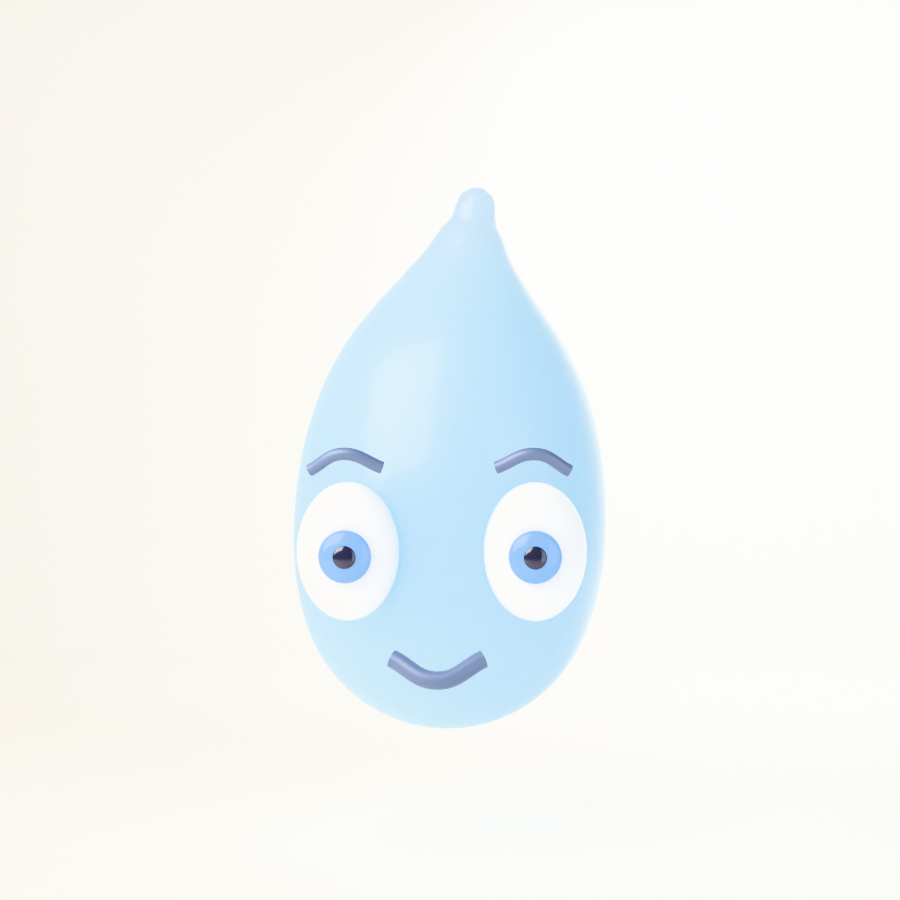
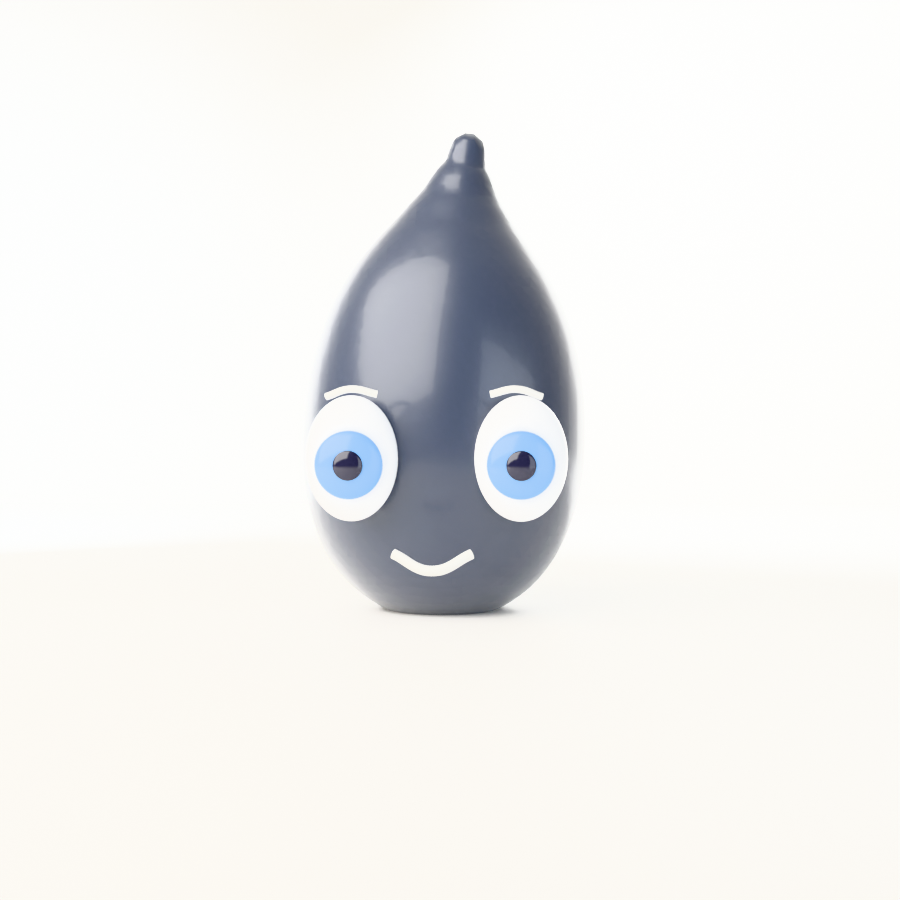
feat: Clio ink-drop character — grounded, stylized, black-ink direction
Ink-drop resting form on the page with true contact (floor slices the
metaball surface at its measured bottom — the conversion surface sits
at ~0.57x element radius, found via bbox debugging). Stylized Pixar
material: near-black blue ink, soft sheen over vinyl gloss, calm face
(large irises, low flat brows), big-softbox studio light.

Changed region(s): [[0.3111, 0.1244, 0.6844, 0.8089]]

diff --git a/tools/clio-character/build_clio.py b/tools/clio-character/build_clio.py
@@ -71,18 +71,19 @@ bpy.context.view_layer.objects.active = body
 bpy.ops.object.shade_smooth()
 
 # ── Body material: translucent blue resin-skin ───────────────────────────────
-mat = bpy.data.materials.new('ClioSkin')
+mat = bpy.data.materials.new('ClioInk')
 mat.use_nodes = True
 bsdf = mat.node_tree.nodes['Principled BSDF']
-bsdf.inputs['Base Color'].default_value = (0.38, 0.62, 0.90, 1.0)  # sky blue
-bsdf.inputs['Roughness'].default_value = 0.32
-# Subsurface scattering — the Pixar skin ingredient
-if 'Subsurface Weight' in bsdf.inputs:  # Blender 4.x
-    bsdf.inputs['Subsurface Weight'].default_value = 0.38
-    bsdf.inputs['Subsurface Radius'].default_value = (0.4, 0.55, 0.9)
-    bsdf.inputs['Subsurface Scale'].default_value = 0.5
+bsdf.inputs['Base Color'].default_value = (0.030, 0.040, 0.070, 1.0)  # stylized ink: near-black blue
+bsdf.inputs['Roughness'].default_value = 0.33  # soft toy sheen, not vinyl
 if 'Coat Weight' in bsdf.inputs:
-    bsdf.inputs['Coat Weight'].default_value = 0.25  # soft wax coat
+    bsdf.inputs['Coat Weight'].default_value = 0.22  # gentle sheen
+    bsdf.inputs['Coat Roughness'].default_value = 0.08
+if 'Sheen Weight' in bsdf.inputs:
+    bsdf.inputs['Sheen Weight'].default_value = 0.3
+if 'Subsurface Weight' in bsdf.inputs:
+    bsdf.inputs['Subsurface Weight'].default_value = 0.06
+    bsdf.inputs['Subsurface Radius'].default_value = (0.1, 0.12, 0.25)
 body.data.materials.append(mat)
 
 
@@ -102,7 +103,7 @@ def make_eye(x, name):
     eye.data.materials.append(m)
 
     # Iris — flattened sphere sunk into the sclera front
-    bpy.ops.mesh.primitive_uv_sphere_add(radius=0.095, location=(x, -0.745, 1.27), segments=32, ring_count=24)
+    bpy.ops.mesh.primitive_uv_sphere_add(radius=0.135, location=(x, -0.735, 1.26), segments=32, ring_count=24)
     iris = bpy.context.active_object
     iris.name = f'{name}_iris'
     iris.scale = (1.0, 0.35, 1.0)
@@ -110,12 +111,12 @@ def make_eye(x, name):
     mi = bpy.data.materials.new(f'{name}_irisMat')
     mi.use_nodes = True
     bi = mi.node_tree.nodes['Principled BSDF']
-    bi.inputs['Base Color'].default_value = (0.16, 0.38, 0.75, 1.0)
+    bi.inputs['Base Color'].default_value = (0.22, 0.50, 0.95, 1.0)
     bi.inputs['Roughness'].default_value = 0.15
     iris.data.materials.append(mi)
 
     # Pupil
-    bpy.ops.mesh.primitive_uv_sphere_add(radius=0.042, location=(x, -0.775, 1.27), segments=24, ring_count=16)
+    bpy.ops.mesh.primitive_uv_sphere_add(radius=0.06, location=(x, -0.78, 1.26), segments=24, ring_count=16)
     pupil = bpy.context.active_object
     pupil.name = f'{name}_pupil'
     pupil.scale = (1.0, 0.3, 1.0)
@@ -136,8 +137,8 @@ make_eye(0.34, 'EyeR')
 feat_mat = bpy.data.materials.new('FeatureMat')
 feat_mat.use_nodes = True
 fb_ = feat_mat.node_tree.nodes['Principled BSDF']
-fb_.inputs['Base Color'].default_value = (0.07, 0.10, 0.18, 1.0)
-fb_.inputs['Roughness'].default_value = 0.45
+fb_.inputs['Base Color'].default_value = (0.62, 0.62, 0.60, 1.0)  # soft grey
+fb_.inputs['Roughness'].default_value = 0.4
 
 
 def arc(name, p0, p1, p2, bevel):
@@ -157,21 +158,21 @@ def arc(name, p0, p1, p2, bevel):
 
 
 # Brows — gentle arches riding the head surface
-arc('BrowL', (-0.46, -0.79, 1.58), (-0.34, -0.83, 1.64), (-0.20, -0.81, 1.59), 0.024)
-arc('BrowR', (0.20, -0.81, 1.59), (0.34, -0.83, 1.64), (0.46, -0.79, 1.58), 0.024)
+arc('BrowL', (-0.42, -0.80, 1.53), (-0.32, -0.83, 1.56), (-0.22, -0.82, 1.54), 0.014)
+arc('BrowR', (0.22, -0.82, 1.54), (0.32, -0.83, 1.56), (0.42, -0.80, 1.53), 0.014)
 
 # Mouth — small confident smile
-arc('Mouth', (-0.16, -0.93, 0.93), (0.0, -0.98, 0.86), (0.16, -0.93, 0.93), 0.034)
+arc('Mouth', (-0.15, -0.93, 0.93), (0.0, -0.98, 0.87), (0.15, -0.93, 0.93), 0.020)
 
 # ── Stage: warm parchment floor + backdrop (one curved plane) ────────────────
-bpy.ops.mesh.primitive_plane_add(size=30, location=(0, 4, 0.115))
+bpy.ops.mesh.primitive_plane_add(size=30, location=(0, 4, 0.60))
 floor = bpy.context.active_object
 floor.name = 'Stage'
 fm = bpy.data.materials.new('StageMat')
 fm.use_nodes = True
 fb = fm.node_tree.nodes['Principled BSDF']
 fb.inputs['Base Color'].default_value = (0.973, 0.953, 0.918, 1.0)  # parchment
-fb.inputs['Roughness'].default_value = 0.28  # soft gloss => gentle reflection
+fb.inputs['Roughness'].default_value = 0.55  # matte paper
 floor.data.materials.append(fm)
 
 # Backdrop wall — warm parchment, softly lit
@@ -193,11 +194,13 @@ def area_light(name, loc, rot, power, size, color=(1, 1, 1)):
     return obj
 
 
-area_light('Key', (-3.2, -3.4, 4.6), (math.radians(45), math.radians(-18), math.radians(-32)), 1150, 5.0,
+area_light('Key', (-3.2, -3.4, 4.6), (math.radians(45), math.radians(-18), math.radians(-32)), 1300, 7.0,
            (1.0, 0.97, 0.92))
-area_light('Fill', (3.6, -3.0, 1.4), (math.radians(75), math.radians(18), math.radians(38)), 220, 4.0,
+area_light('Fill', (3.6, -3.0, 1.4), (math.radians(75), math.radians(18), math.radians(38)), 180, 4.0,
            (0.85, 0.92, 1.0))
-area_light('Rim', (1.6, 3.8, 3.4), (math.radians(-50), math.radians(12), math.radians(160)), 500, 3.0,
+area_light('RimL', (-3.4, 3.2, 2.6), (math.radians(-55), math.radians(-10), math.radians(-155)), 650, 2.5,
+           (0.9, 0.95, 1.0))
+area_light('Rim', (1.6, 3.8, 3.4), (math.radians(-50), math.radians(12), math.radians(160)), 950, 3.0,
            (0.95, 0.98, 1.0))
 
 # World: soft warm ambient
@@ -205,17 +208,17 @@ world = bpy.data.worlds.new('World')
 scene.world = world
 world.use_nodes = True
 world.node_tree.nodes['Background'].inputs['Color'].default_value = (0.96, 0.94, 0.90, 1.0)
-world.node_tree.nodes['Background'].inputs['Strength'].default_value = 0.25
+world.node_tree.nodes['Background'].inputs['Strength'].default_value = 0.10
 
 # ── Camera: 85mm portrait, slight down-angle, gentle DoF ─────────────────────
 cam_data = bpy.data.cameras.new('Cam')
-cam_data.lens = 85
+cam_data.lens = 70
 cam_data.dof.use_dof = True
 cam_data.dof.focus_distance = 8.2
-cam_data.dof.aperture_fstop = 3.2
+cam_data.dof.aperture_fstop = 4.5
 cam = bpy.data.objects.new('Cam', cam_data)
-cam.location = (0.3, -8.3, 1.85)
-cam.rotation_euler = (math.radians(88.5), 0, math.radians(2.0))
+cam.location = (0.3, -7.6, 1.62)
+cam.rotation_euler = (math.radians(87.5), 0, math.radians(2.0))
 bpy.context.collection.objects.link(cam)
 scene.camera = cam
 
